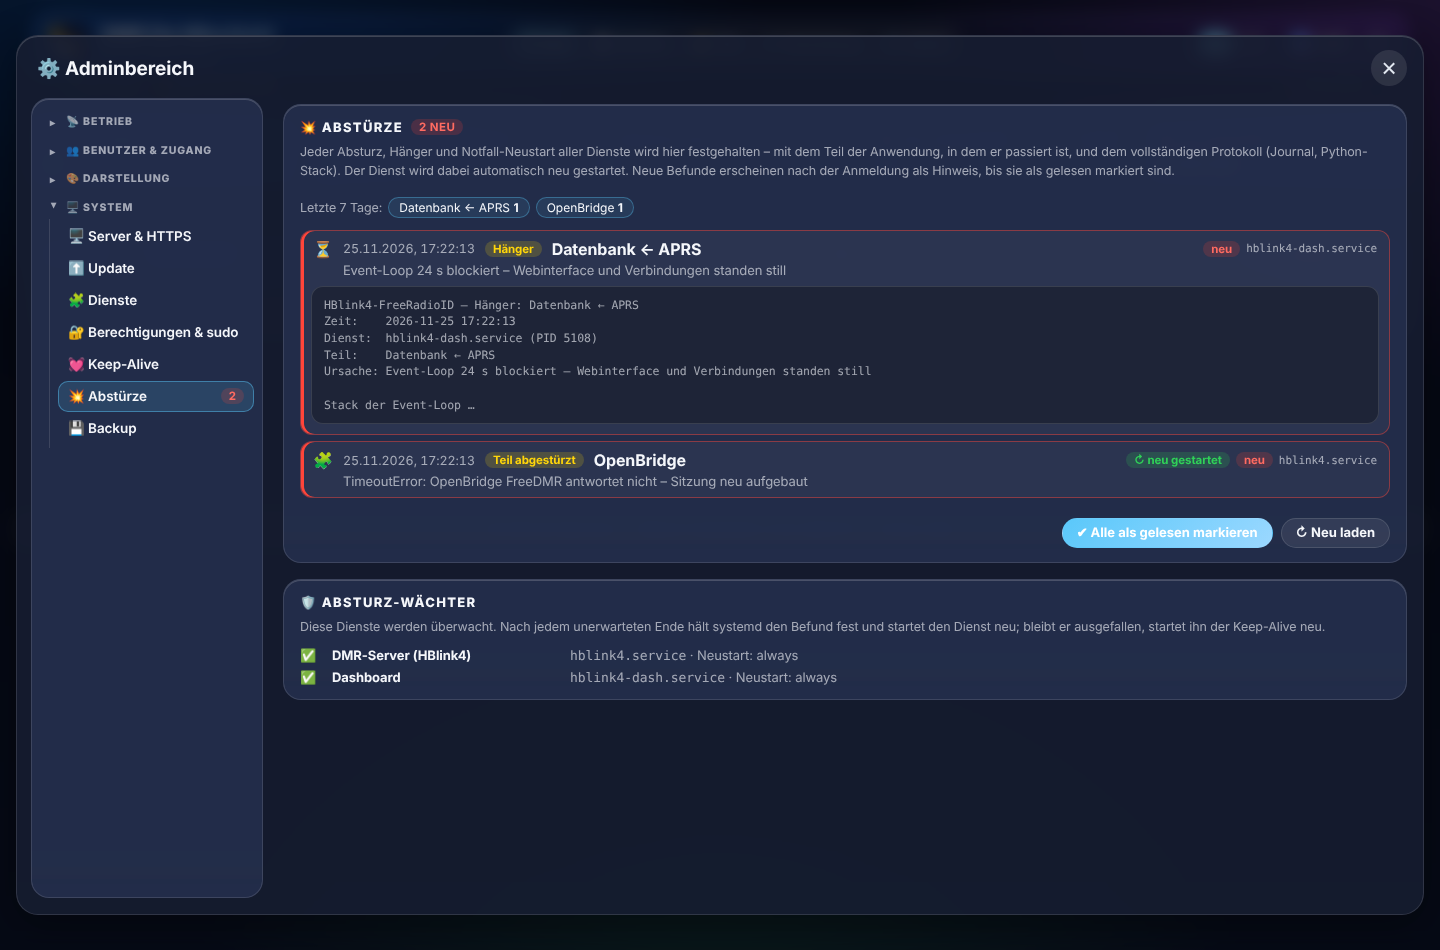
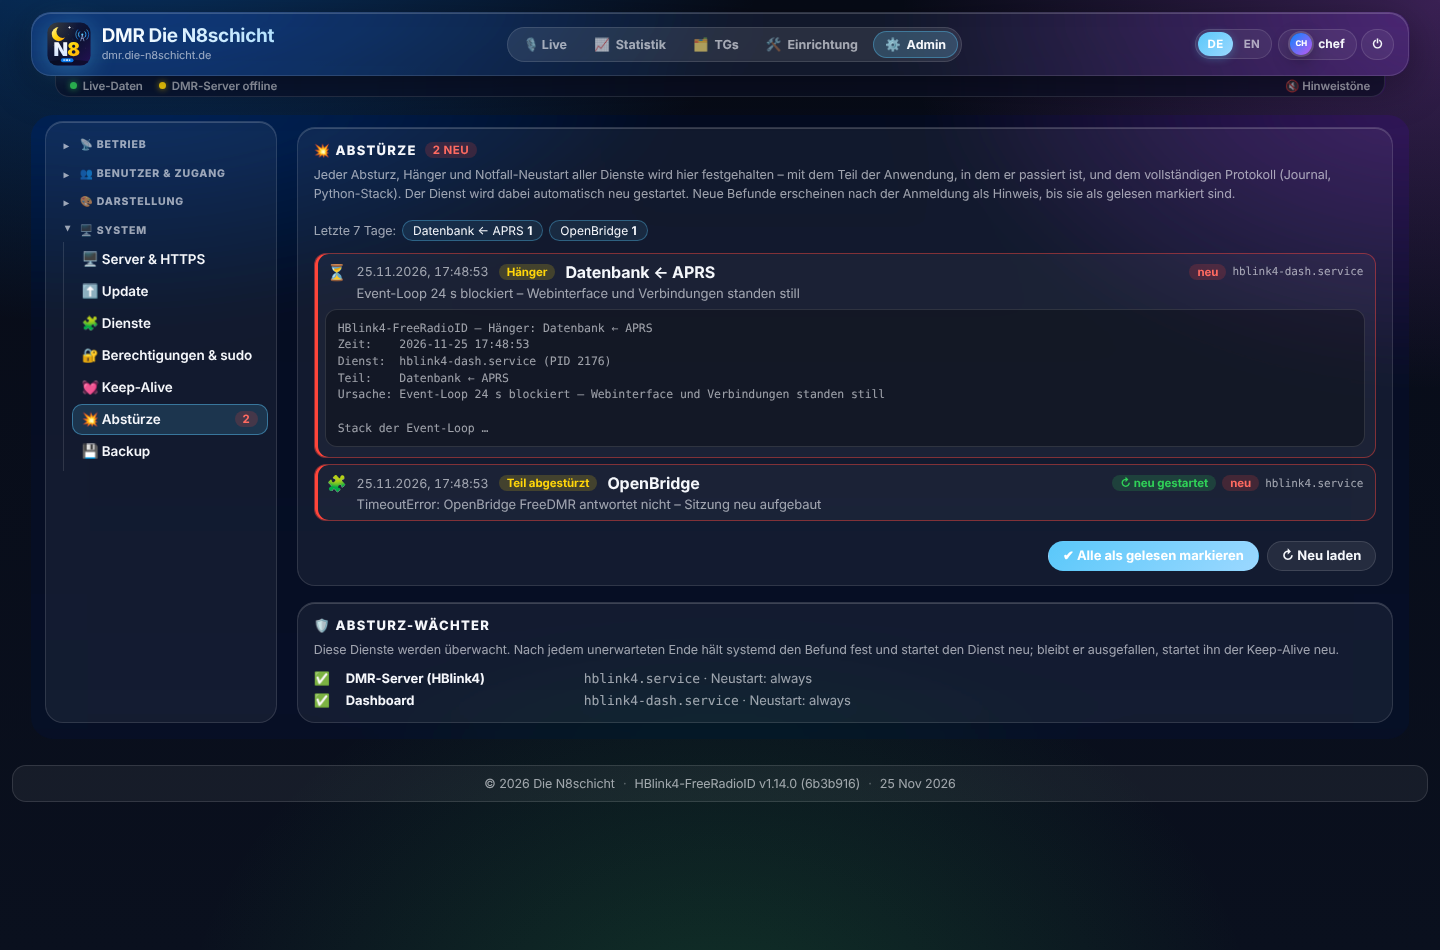
1.14.1: Adminbereich als Seite über die ganze Breite wie N8 Crosslink, kein „Fehler -15“ beim eigenen Neustart
- Fix „Fehler -15“: Neustart/Stopp des eigenen Dienstes über Admin → System → Dienste beendete das laufende sudo/systemctl
  mit SIGTERM. Jetzt wird der eigene Dienst erkannt (/proc/self/cgroup), erst geantwortet und 1 s später ausgelöst; die
  Dienste-Ansicht wartet, bis die Weboberfläche wieder antwortet (n8_admin.py, n8-kit.js – gleich in allen N8-Systemen).
- Ganze Browser-Breite exakt wie N8 Crosslink: gleicher Seitenrand (12 px) in allen N8-Systemen (n8-kit.css).
- HBlink4: Adminbereich kein schwebendes Fenster mehr, sondern Seite unter der Kopfzeile über die ganze Browser-Breite
  (wie N8 Crosslink); Admin in der Menüleiste hervorgehoben; Doku und Screenshots des Adminbereichs erneuert.
Claude-Session: https://claude.ai/code/session_01J5RG2njQDPpN1LJmv9Xn8d

diff --git a/dashboard/static/dashboard.html b/dashboard/static/dashboard.html
@@ -1655,6 +1655,14 @@
 
         /* Admin window: always the same size, content scrolls inside */
         .modal-content.admin { height: min(880px, calc(100vh - 32px)); }
+        /* Adminbereich als Seite über die ganze Breite (wie N8 Crosslink): unter der Kopfzeile statt als Fenster */
+        body.admin-open .container > .tab-pane, body.admin-open .container > .links-bar { display: none !important; }
+        .modal-overlay.admin-dock { position: static !important; inset: auto; background: none !important; -webkit-backdrop-filter: none !important; backdrop-filter: none !important;
+            padding: 0 !important; display: block !important; z-index: auto; animation: none; }
+        .admin-dock .modal-content.admin { width: auto !important; max-width: none !important; height: auto !important; max-height: none !important; margin: 0 !important;
+            padding: 0 !important; background: none !important; border: 0 !important; box-shadow: none !important; overflow: visible !important; animation: none; }
+        .admin-dock .admin-head { display: none; }
+        .admin-dock .modal-content.admin .admin-body { overflow: visible; }
         .modal-content.admin .admin-body { flex: 1 1 auto; min-height: 0; overflow-y: auto; }
         @media (max-width: 600px) { .modal-content.admin { height: calc(100vh - 20px); max-height: none; } }
         .tab-intro { padding: 2px 4px 10px; }
@@ -3257,6 +3265,8 @@
         };
 
         function openAdmin(tab = 'users') {
+            const open = document.getElementById('adminModal');
+            if (open) { adminTab(tab); return; }
             const m = openModal(`
                 <div class="admin-head">
                     <h2>⚙ Admin area</h2>
@@ -3264,8 +3274,16 @@
                 </div>
                 <div class="hb-admin"><nav id="adminNav" aria-label="Admin"></nav><div class="admin-body" id="adminBody"></div></div>`, 'admin');
             m.id = 'adminModal';
+            // Wie in N8 Crosslink (und allen N8-Systemen): der Adminbereich ist eine Seite unter der Kopfzeile über die ganze
+            // Browser-Breite – kein schwebendes Fenster mehr. „Admin“ in der Menüleiste ist dabei hervorgehoben.
+            m.classList.add('admin-dock');
+            document.querySelector('body > .container').appendChild(m);
+            document.body.classList.add('admin-open');
+            showTab(currentTab(), false);     // markiert „Admin“ und blendet die Seiten aus
+            window.scrollTo(0, 0);
             // unsaved appearance changes are only a preview: closing restores the saved look
-            const close = m._close; m._close = () => { close(); loadConfig(); };
+            const close = m._close;
+            m._close = () => { close(); document.body.classList.remove('admin-open'); showTab(currentTab(), false); loadConfig(); };
             adminTab(tab);
         }
 
@@ -7105,9 +7123,10 @@ PROTO_VER: ${fd ? 5 : 1}`;
             if (tab === 'config' && !cfAllowed()) tab = 'live';
             if (tab === 'obp' && !obpList().length) tab = 'live';
             if (tab === 'aprs' && !aprsAllowed()) tab = 'live';
+            const adm = !!document.getElementById('adminModal');     // Adminbereich offen: „Admin“ bleibt hervorgehoben
             document.querySelectorAll('#mainTabs button').forEach(b => {
-                b.classList.toggle('active', b.dataset.tab === tab);
-                b.setAttribute('aria-selected', b.dataset.tab === tab ? 'true' : 'false');
+                b.classList.toggle('active', adm ? b.id === 'mainTabAdmin' : b.dataset.tab === tab);
+                b.setAttribute('aria-selected', !adm && b.dataset.tab === tab ? 'true' : 'false');
             });
             document.getElementById('tabLive').style.display = tab === 'live' ? '' : 'none';
             document.getElementById('tabStats').style.display = tab === 'stats' ? '' : 'none';
@@ -7127,7 +7146,8 @@ PROTO_VER: ${fd ? 5 : 1}`;
             else tgsHide();
         }
         document.getElementById('mainTabs').addEventListener('click', ev => {
-            const b = ev.target.closest('button[data-tab]'); if (b) showTab(b.dataset.tab, true);
+            const b = ev.target.closest('button[data-tab]');
+            if (b) { const am = document.getElementById('adminModal'); if (am) am._close(); showTab(b.dataset.tab, true); }
         });
         window.addEventListener('hashchange', () => showTab(currentTab(), false));
 

diff --git a/dashboard/static/n8-kit.js b/dashboard/static/n8-kit.js
@@ -518,7 +518,18 @@
                     const u = b.dataset.u, a = b.dataset.a;
                     if (a === 'stop' && !confirm(t('Dienst stoppen?') + '\n' + u)) return;
                     b.disabled = true;
-                    try { await req('POST', `/api/admin/services/${encodeURIComponent(u)}/${a}`, {}); } catch (e) { alert(e.message); }
+                    let r = null;
+                    try { r = await req('POST', `/api/admin/services/${encodeURIComponent(u)}/${a}`, {}); } catch (e) { alert(e.message); }
+                    if (r && r.self) {          // der eigene Dienst startet neu: warten, bis die Weboberfläche wieder antwortet
+                        paint(card('🧩 Dienste', `<div class="n8-help">⏳ ${esc(t(a === 'stop' ? 'Die Weboberfläche wird gestoppt …' : 'Die Weboberfläche startet neu – einen Moment …'))}</div>`));
+                        if (a === 'stop') return;
+                        const t0 = Date.now();
+                        await new Promise(res => setTimeout(res, 3000));
+                        while (Date.now() - t0 < 120000) {
+                            try { await req('GET', '/api/admin/services'); break; } catch (e) { await new Promise(res => setTimeout(res, 2000)); }
+                        }
+                        return load();
+                    }
                     setTimeout(load, a === 'stop' ? 500 : 1500);
                 });
                 el.querySelectorAll('[data-auto]').forEach(c => c.onchange = async () => {
@@ -732,6 +743,7 @@
             '1 neuer Absturz': '1 new crash', '{n} neue Abstürze': '{n} new crashes', 'weitere': 'more', 'Alle Abstürze ansehen': 'View all crashes', 'Gelesen': 'Mark as read',
             'Seit dem letzten Lesen ist ein Dienst abgestürzt oder hing. Er wurde automatisch neu gestartet. Der Befund nennt den Teil der Anwendung und enthält das vollständige Protokoll.':
                 'Since you last looked, a service crashed or hung. It was restarted automatically. The finding names the part of the application and contains the full log.',
+            'Die Weboberfläche wird gestoppt …': 'The web interface is being stopped …', 'Die Weboberfläche startet neu – einen Moment …': 'The web interface is restarting – one moment …',
             'Keep-Alive an': 'Keep-alive on', 'Netzdienste nach einem Internet-Ausfall neu starten': 'Restart network services after an internet outage',
             'Heartbeat-Adresse': 'Heartbeat address', 'Heartbeat bei Fehlern (optional)': 'Heartbeat on errors (optional)', '▶ Fortsetzen': '▶ Resume',
             '⏸ 1 h pausieren (Wartung)': '⏸ Pause 1 h (maintenance)', 'Speichern': 'Save', 'Keep-Alive-Protokoll': 'Keep-alive log',

diff --git a/dashboard/static/n8-kit.css b/dashboard/static/n8-kit.css
@@ -171,6 +171,8 @@ html[data-theme-mode=light] .n8-log { background: rgba(0, 0, 0, .05); }
 /* ---------- 1.2: N8 Frame – the whole browser width and the same menu bar in every N8 system (model: ADN FRN Server) ---------- */
 body > :is(.container, .wrap) { max-width: none !important; padding-left: clamp(10px, 1.3vw, 24px) !important; padding-right: clamp(10px, 1.3vw, 24px) !important; box-sizing: border-box; }
 body .site-footer { max-width: none !important; }
+/* 1.3: derselbe Seitenrand wie N8 Crosslink in allen N8-Systemen (12 px links und rechts, dann 10–24 px im Inhalt) */
+@media (min-width: 901px) { body { padding-left: 12px !important; padding-right: 12px !important; } }
 .modal-content.admin { width: calc(100vw - 32px) !important; max-width: none !important; }
 @media (min-width: 901px) {
     :is(.n8-topbar, .topbar) > header { display: flex !important; align-items: center !important; gap: 14px !important; padding: 8px 14px !important;

diff --git a/dashboard/n8_admin.py b/dashboard/n8_admin.py
@@ -96,8 +96,24 @@ class N8Admin:
             return True, "ok (Demo)"
         sc = self.config().get("systemctl") or "/usr/bin/systemctl"
         args = [sc, action, unit] if action not in ("start", "restart") else [sc, "--no-block", action, unit]
+        if action in ("restart", "stop") and unit == own_unit():
+            # Der eigene Dienst: systemd beendet beim Stoppen ALLE Prozesse des Dienstes – auch sudo/systemctl, die gerade laufen
+            # (bisher „Fehler -15“ = SIGTERM, obwohl der Neustart klappte). Darum erst antworten, dann kurz darauf auslösen.
+            self._later(self._sudo(*args, timeout=60))
+            return True, "wird gleich ausgeführt – die Weboberfläche ist dabei kurz nicht erreichbar"
         rc, out = await self._sudo(*args, timeout=60)
         return rc == 0, out.strip()[-400:] or ("ok" if rc == 0 else f"Fehler {rc}")
+
+    _bg: set = set()
+
+    @staticmethod
+    def _later(coro, delay: float = 1.0) -> None:
+        async def run() -> None:
+            await asyncio.sleep(delay)
+            await coro
+        t = asyncio.ensure_future(run())
+        N8Admin._bg.add(t)
+        t.add_done_callback(N8Admin._bg.discard)
 
     def _hold(self, unit: str, action: str) -> None:
         """Von Hand gestoppt → Keep-Alive startet den Dienst nicht wieder, bis er hier gestartet wird."""
@@ -320,6 +336,18 @@ class N8Admin:
         tmp.write_text(json.dumps(a), "utf-8")
         os.replace(tmp, d / "ack.json")
         return self.crashes()
+
+
+def own_unit() -> str:
+    """systemd-Dienst, in dem dieser Prozess läuft (aus /proc/self/cgroup), sonst ''."""
+    try:
+        for line in Path("/proc/self/cgroup").read_text().splitlines():
+            for part in line.rsplit(":", 1)[-1].split("/"):
+                if part.endswith(".service"):
+                    return part
+    except OSError:
+        pass
+    return ""
 
 
 import re as _re  # noqa: E402

diff --git a/dashboard/server.py b/dashboard/server.py
@@ -42,7 +42,7 @@ from .talkgroups import Talkgroups
 from . import version as _version
 from . import siteicons as _siteicons
 from . import n8_security as _sec
-from .n8_admin import N8Admin as _N8Admin
+from .n8_admin import N8Admin as _N8Admin, own_unit
 from . import backup as _backup
 from . import autobackup as _autobackup
 from .aprs.service import AprsService
@@ -1543,7 +1543,7 @@ async def admin_service_action(unit: str, action: str, request: Request):
     state.auth.audit("service", actor["username"], f"{action} {unit}: {'ok' if ok else out[:120]}", _client_ip(request))
     if not ok:
         raise _HTTPError(400, out or "failed")
-    return {"ok": True, "message": out, "units": await _n8().units()}
+    return {"ok": True, "message": out, "units": await _n8().units(), "self": action in ("restart", "stop") and unit == own_unit()}
 
 
 @app.get("/api/admin/perms")

diff --git a/docs/de/adminbereich.md b/docs/de/adminbereich.md
@@ -39,7 +39,7 @@ Im Adminbereich stellst du **Dashboard und DMR-Server** ein, ohne SSH und ohne C
 
 <p align="center"><img src="../images/admin-keepalive.png" alt="Adminbereich mit Baum-Menü" width="95%"></p>
 
-Seit **1.13.0** steht links im Admin-Fenster ein **Baum-Menü** – dasselbe wie im HobbyRadioPortal, ADN-FRN-Server, N8 Hotspot
+Seit **1.14.1** ist der Adminbereich kein schwebendes Fenster mehr, sondern – wie in N8 Crosslink und allen N8-Systemen – eine **Seite unter der Kopfzeile über die ganze Browser-Breite**; **⚙ Admin** in der Menüleiste ist dabei hervorgehoben, ein Klick auf einen anderen Menüpunkt (oder Esc) verlässt ihn. Seit **1.13.0** steht links ein **Baum-Menü** – dasselbe wie im HobbyRadioPortal, ADN-FRN-Server, N8 Hotspot
 und N8 Crosslink, mit denselben Gruppen in derselben Reihenfolge:
 
 | Gruppe | Einträge |
@@ -50,7 +50,7 @@ und N8 Crosslink, mit denselben Gruppen in derselben Reihenfolge:
 | 🖥 **System** | 🖥 Server & HTTPS · ⬆ Update · 🧩 Dienste · 🔐 Berechtigungen & sudo · 💓 Keep-Alive · 💥 Abstürze · 💾 Backup |
 
 Alle Gruppen sind **anfangs zugeklappt** – offen ist nur die Gruppe der gerade gewählten Seite; ein Klick auf eine Gruppe klappt sie auf (gemerkt bis zum Schließen des Browser-Tabs). Am Smartphone steht das Menü über dem Inhalt als aufklappbare
-Leiste „☰ *aktueller Bereich*“. Das Fenster ist immer gleich groß, nur der Inhalt rollt; Kacheln einer Reihe sind gleich hoch.
+Leiste „☰ *aktueller Bereich*“. Kacheln einer Reihe sind gleich hoch.
 
 ## 💾 Backup
 
@@ -130,7 +130,7 @@ OpenBridge-Trunks haben einen eigenen Bereich: [↔ OpenBridge](#-openbrid
 &nbsp;
 <img src="../images/admin-appearance-mobile.png" alt="Appearance am Smartphone" width="22%"></p>
 
-Rechts zeigt eine **Vorschau** Browser-Tab und Kopfzeile. Gleichzeitig ändert sich das ganze Dashboard hinter dem Fenster sofort mit. Was du nicht speicherst, verschwindet beim Schließen des Fensters wieder.
+Rechts zeigt eine **Vorschau** Browser-Tab und Kopfzeile. Gleichzeitig ändert sich das ganze Dashboard sofort mit. Was du nicht speicherst, verschwindet beim Verlassen des Adminbereichs wieder.
 
 | Bereich | Einstellungen |
 |---|---|

diff --git a/CHANGELOG.md b/CHANGELOG.md
@@ -4,6 +4,23 @@ Alle Versionen von **HBlink4-FreeRadioID** (DMR Die N8schicht), die neueste oben
 Die Nummern folgen [Semantic Versioning](https://semver.org/lang/de/): `MAJOR.MINOR.PATCH`.
 Wie Versionen entstehen, steht in [docs/de/versionen.md](docs/de/versionen.md).
 
+## [1.14.1] – 2026-11-25
+
+### 🐛 Behoben: „Fehler -15“ beim Neustart des eigenen Dienstes (Admin → System → Dienste)
+- **Ursache:** Startet man die Weboberfläche über *Dienste* neu (oder stoppt sie), beendet systemd **alle** Prozesse des Dienstes – auch das
+  gerade laufende `sudo systemctl …`. Das meldete sich mit Rückgabewert −15 (SIGTERM) zurück, die Oberfläche zeigte „Fehler -15“, obwohl
+  der Neustart geklappt hatte; im Ereignisprotokoll stand „restart … – Fehler -15“.
+- **Jetzt:** Der eigene Dienst wird erkannt (`/proc/self/cgroup`), die Antwort geht zuerst raus, eine Sekunde später wird der Neustart
+  ausgelöst. Die Ansicht zeigt „Die Weboberfläche startet neu – einen Moment …“ und lädt sich von selbst neu, sobald sie wieder antwortet.
+  Gemeinsamer Baustein (`n8_admin.py`, `n8-kit.js`), gleich in allen N8-Systemen.
+
+### 🖥 Ganze Browser-Breite: überall genau wie N8 Crosslink
+- **Gleicher Seitenrand** in allen N8-Systemen: 12 px links und rechts, Kopfzeile und Inhalt stehen auf den Pixel genau wie in N8 Crosslink
+  (vorher je nach System 12–16 px; `n8-kit.css`).
+- **Adminbereich als Seite statt Fenster:** Der Adminbereich öffnet sich nicht mehr als schwebendes Fenster mit Rand, sondern wie in
+  N8 Crosslink **unter der Kopfzeile über die ganze Browser-Breite**; **⚙ Admin** ist in der Menüleiste hervorgehoben, ein Klick auf
+  Live, Statistik usw. (oder Esc) verlässt ihn. Screenshots des Adminbereichs erneuert.
+
 ## [1.14.0] – 2026-11-25
 
 ### 💥 Neu: Absturz-Erkennung – jeder Absturz wird mit Ursache und Protokoll festgehalten, gemeldet und der Dienst neu gestartet
